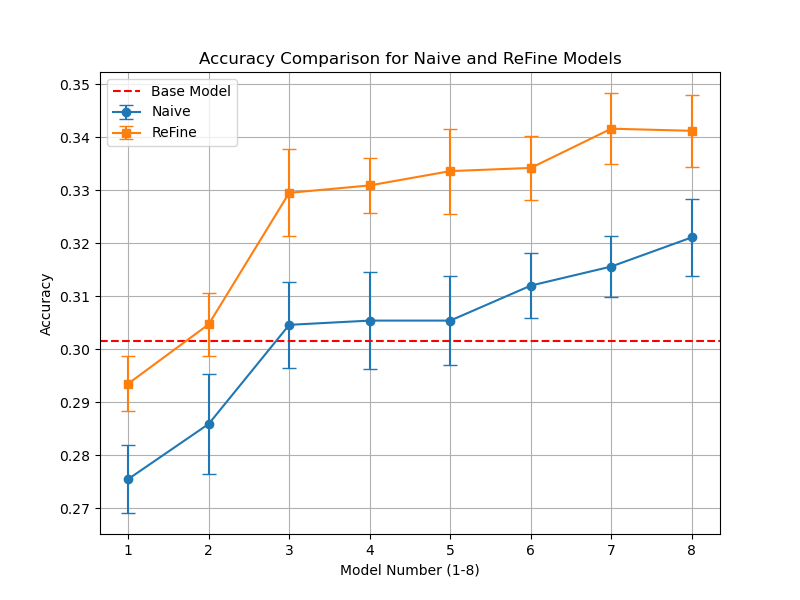
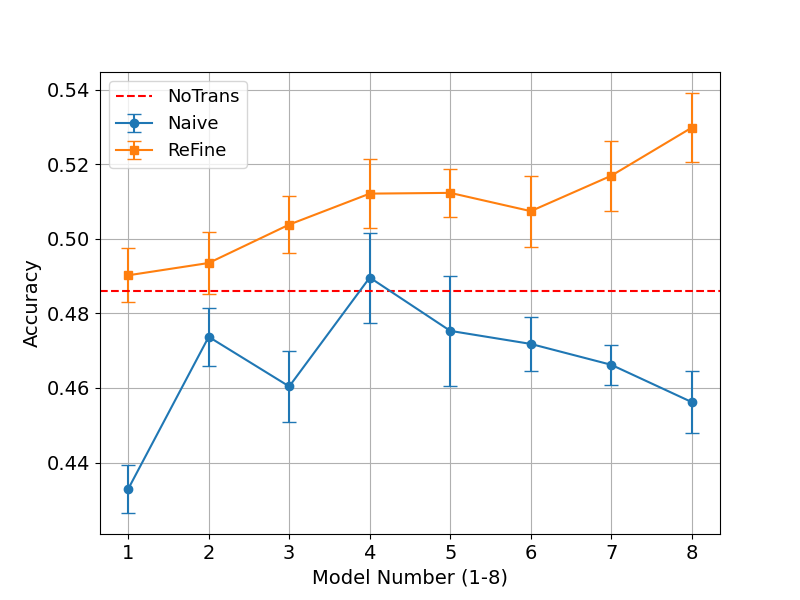
update scaling ablate

diff --git a/scaling_ablate.py b/scaling_ablate.py
@@ -53,9 +53,18 @@ def load_test_sets():
 class CorruptedDataset(torch.utils.data.Dataset):
     def __init__(self, dataset):
         self.dataset = dataset
+        # Define partner pairs as a dictionary.
+        self.partner_map = {0: 1, 1: 0, 2: 3, 3: 2, 4: 5, 5: 4, 6: 7, 7: 6, 8: 9, 9: 8}
+
     def __getitem__(self, index):
         img, label = self.dataset[index]
-        return img, (label + 1) % 10
+        # With 50% probability, flip the label to its partner.
+        if random.random() < 0.5:
+            new_label = self.partner_map[label]
+        else:
+            new_label = label
+        return img, new_label
+
     def __len__(self):
         return len(self.dataset)
 
@@ -65,7 +74,7 @@ class CorruptedDataset(torch.utils.data.Dataset):
 ###############################################################################
 def train_model(model, dataloader, epochs, device):
     model.train()
-    optimizer = optim.SGD(model.parameters(), lr=0.001, momentum=0.9)
+    optimizer = optim.SGD(model.parameters(), lr=0.01, momentum=0.9)
     criterion = nn.CrossEntropyLoss()
     for epoch in range(epochs):
         for inputs, labels in dataloader:
@@ -78,7 +87,7 @@ def train_model(model, dataloader, epochs, device):
 
 def train_enhanced(model, external_models, dataloader, epochs, device):
     model.train()
-    optimizer = optim.SGD(model.parameters(), lr=0.001, momentum=0.9)
+    optimizer = optim.SGD(model.parameters(), lr=0.01, momentum=0.9)
     criterion = nn.CrossEntropyLoss()
     # Set external models to eval mode.
     for ext_model in external_models:
@@ -160,19 +169,24 @@ class FeatureDatasetConcat(torch.utils.data.Dataset):
         return len(self.labels)
 
 class NaiveClassifier(nn.Module):
-    def __init__(self, input_dim, hidden_dim=128, num_classes=10):
+    def __init__(self, input_dim, num_classes=10):
         super(NaiveClassifier, self).__init__()
         self.fc = nn.Sequential(
-            nn.Linear(input_dim, hidden_dim),
+            nn.Linear(input_dim, 256),
             nn.ReLU(),
-            nn.Linear(hidden_dim, num_classes)
+            nn.Linear(256, 256),
+            nn.ReLU(),
+            nn.Linear(256, 128),
+            nn.ReLU(),
+            nn.Linear(128, num_classes)
         )
+
     def forward(self, x):
         return self.fc(x)
 
 def train_naive(model, dataloader, epochs, device):
     model.train()
-    optimizer = optim.SGD(model.parameters(), lr=0.001, momentum=0.9)
+    optimizer = optim.SGD(model.parameters(), lr=0.01, momentum=0.9)
     criterion = nn.CrossEntropyLoss()
     for epoch in range(epochs):
         for feats, labels in dataloader:
@@ -292,12 +306,13 @@ def main():
     
     # Dataset splitting.
     base0_dataset = load_subset(full_trainset, 0, train_size)
+    # External datasets: create 8 subsets, and now all are corrupted.
     external_datasets = []
     for i in range(8):
         start_idx = train_size + i * train_size
         subset = load_subset(full_trainset, start_idx, train_size)
-        if (i % 2) == 0:
-            subset = CorruptedDataset(subset)
+        # All external subsets are wrapped with the corrupted dataset.
+        subset = CorruptedDataset(subset)
         external_datasets.append(subset)
     
     # Base model.

diff --git a/plot_scaling_ablate.py b/plot_scaling_ablate.py
@@ -69,28 +69,32 @@ for i in model_nums:
         enhanced_f1_mean.append(None)
         enhanced_f1_std.append(None)
 
-# Function to plot the metric with error bars and save the figure.
 def plot_metric(metric_name, naive_means, naive_stds, enhanced_means, enhanced_stds, base_mean, filename):
     plt.figure(figsize=(8, 6))
-    
-    # Plot error bars for naive models.
+
+    # Plot error bars
     plt.errorbar(model_nums, naive_means, yerr=naive_stds, marker='o', linestyle='-', capsize=5, label='Naive')
-    
-    # Plot error bars for ReFine models.
     plt.errorbar(model_nums, enhanced_means, yerr=enhanced_stds, marker='s', linestyle='-', capsize=5, label='ReFine')
-    
-    # Draw the horizontal line for the base model mean.
-    plt.axhline(y=base_mean, color='r', linestyle='--', label='Base Model')
-    
-    plt.xlabel("Model Number (1-8)")
-    plt.ylabel(metric_name.capitalize())
-    plt.title(f"{metric_name.capitalize()} Comparison for Naive and ReFine Models")
-    plt.legend()
+
+    # Baseline
+    plt.axhline(y=base_mean, color='r', linestyle='--', label='NoTrans')
+
+    # Axis labels
+    plt.xlabel("Model Number (1-8)", fontsize=14)
+    plt.ylabel(metric_name.capitalize(), fontsize=14)
+
+    # Tick label font sizes
+    plt.xticks(fontsize=14)
+    plt.yticks(fontsize=14)
+
+    # Legend
+    plt.legend(fontsize=13)
     plt.grid(True)
-    
-    # Save the plot to the designated folder.
+
+    # Save the plot
     plt.savefig(os.path.join(plots_folder, filename))
     plt.close()
+
 
 # Plot and save for each metric.
 plot_metric("accuracy", naive_accuracy_mean, naive_accuracy_std, enhanced_accuracy_mean, enhanced_accuracy_std, base_accuracy_mean, "scaling_ablate_accuracy.png")

diff --git a/layer_ablate.py b/layer_ablate.py
@@ -66,7 +66,7 @@ def load_data_split(seed, flip_ratio=1.0):
 
 def train_enhanced_ablate(model, train_loader, external_model, epochs, device):
     model.train()
-    optimizer = torch.optim.Adam(model.parameters(), lr=0.001)
+    optimizer = torch.optim.Adam(model.parameters(), lr=0.01)
     criterion = nn.CrossEntropyLoss()
     external_model.eval()  # BigCNN remains fixed
     
@@ -154,7 +154,7 @@ def main():
             print(f"Loaded pretrained BigCNN from: {noise_model_path}")
         else:
             external_model = BigCNN().to(device)
-            optimizer = torch.optim.Adam(external_model.parameters(), lr=0.001)
+            optimizer = torch.optim.Adam(external_model.parameters(), lr=0.01)
             criterion = nn.CrossEntropyLoss()
             external_model.train()
             for epoch in range(pretrain_epochs):
